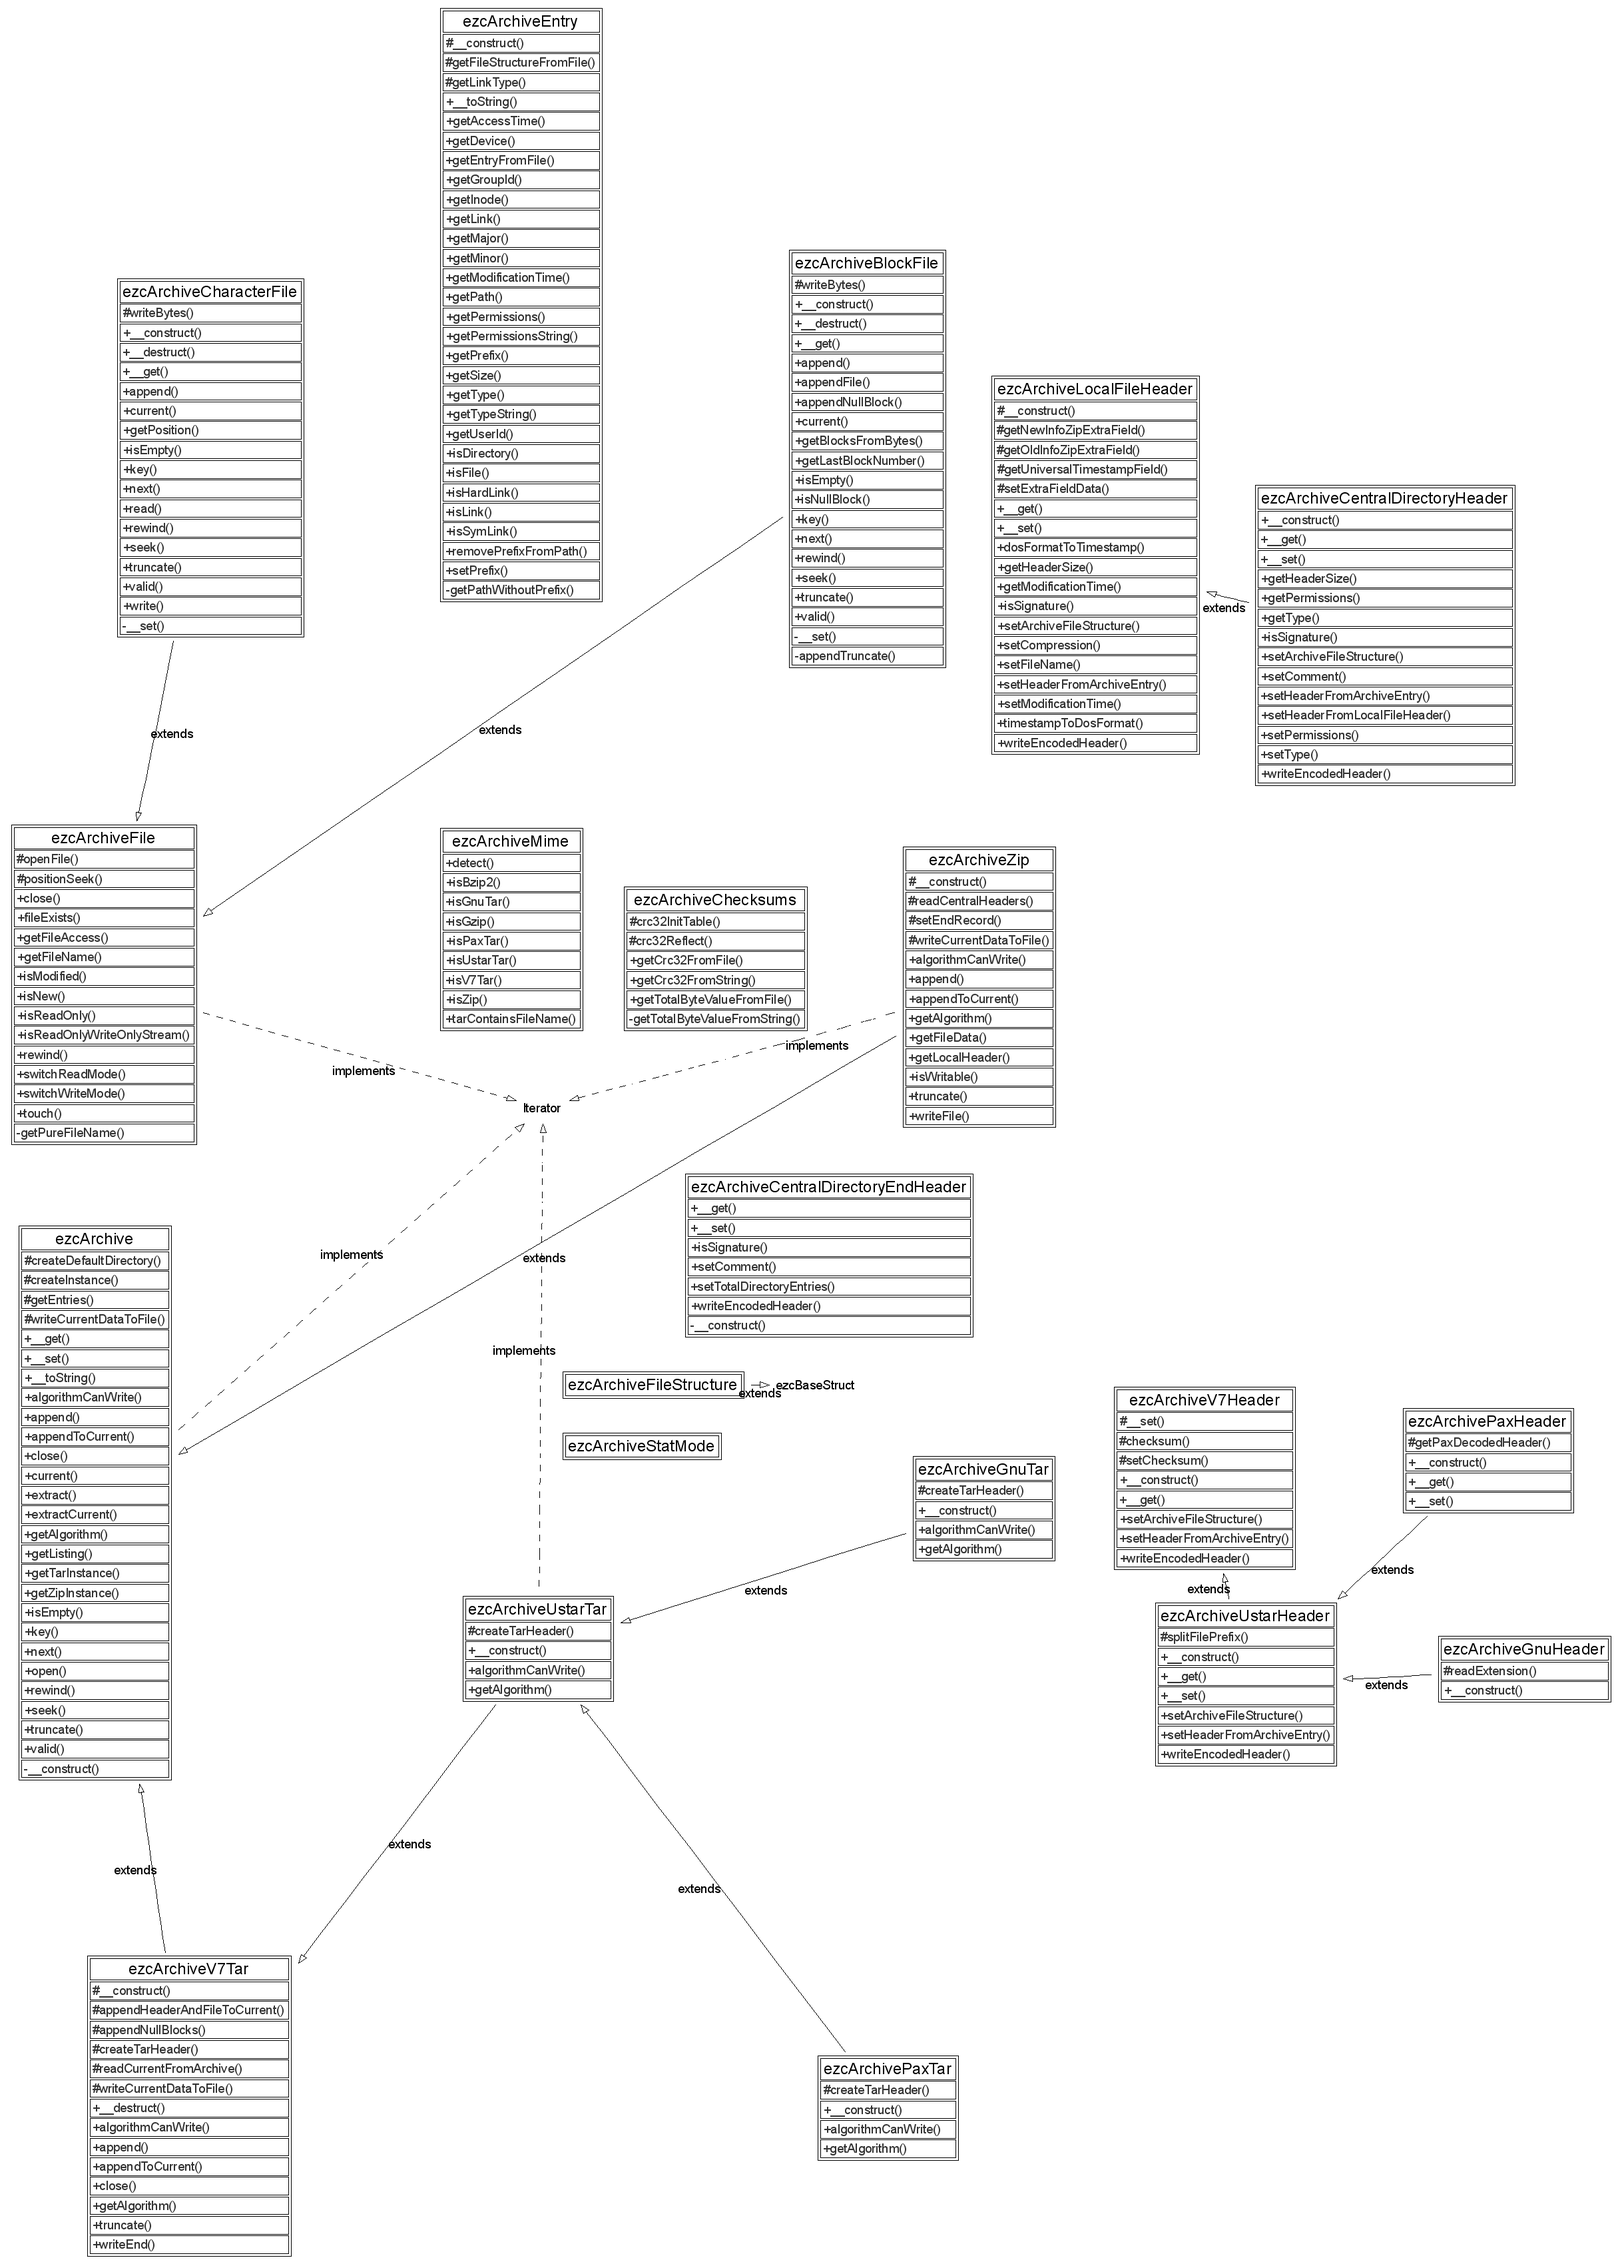
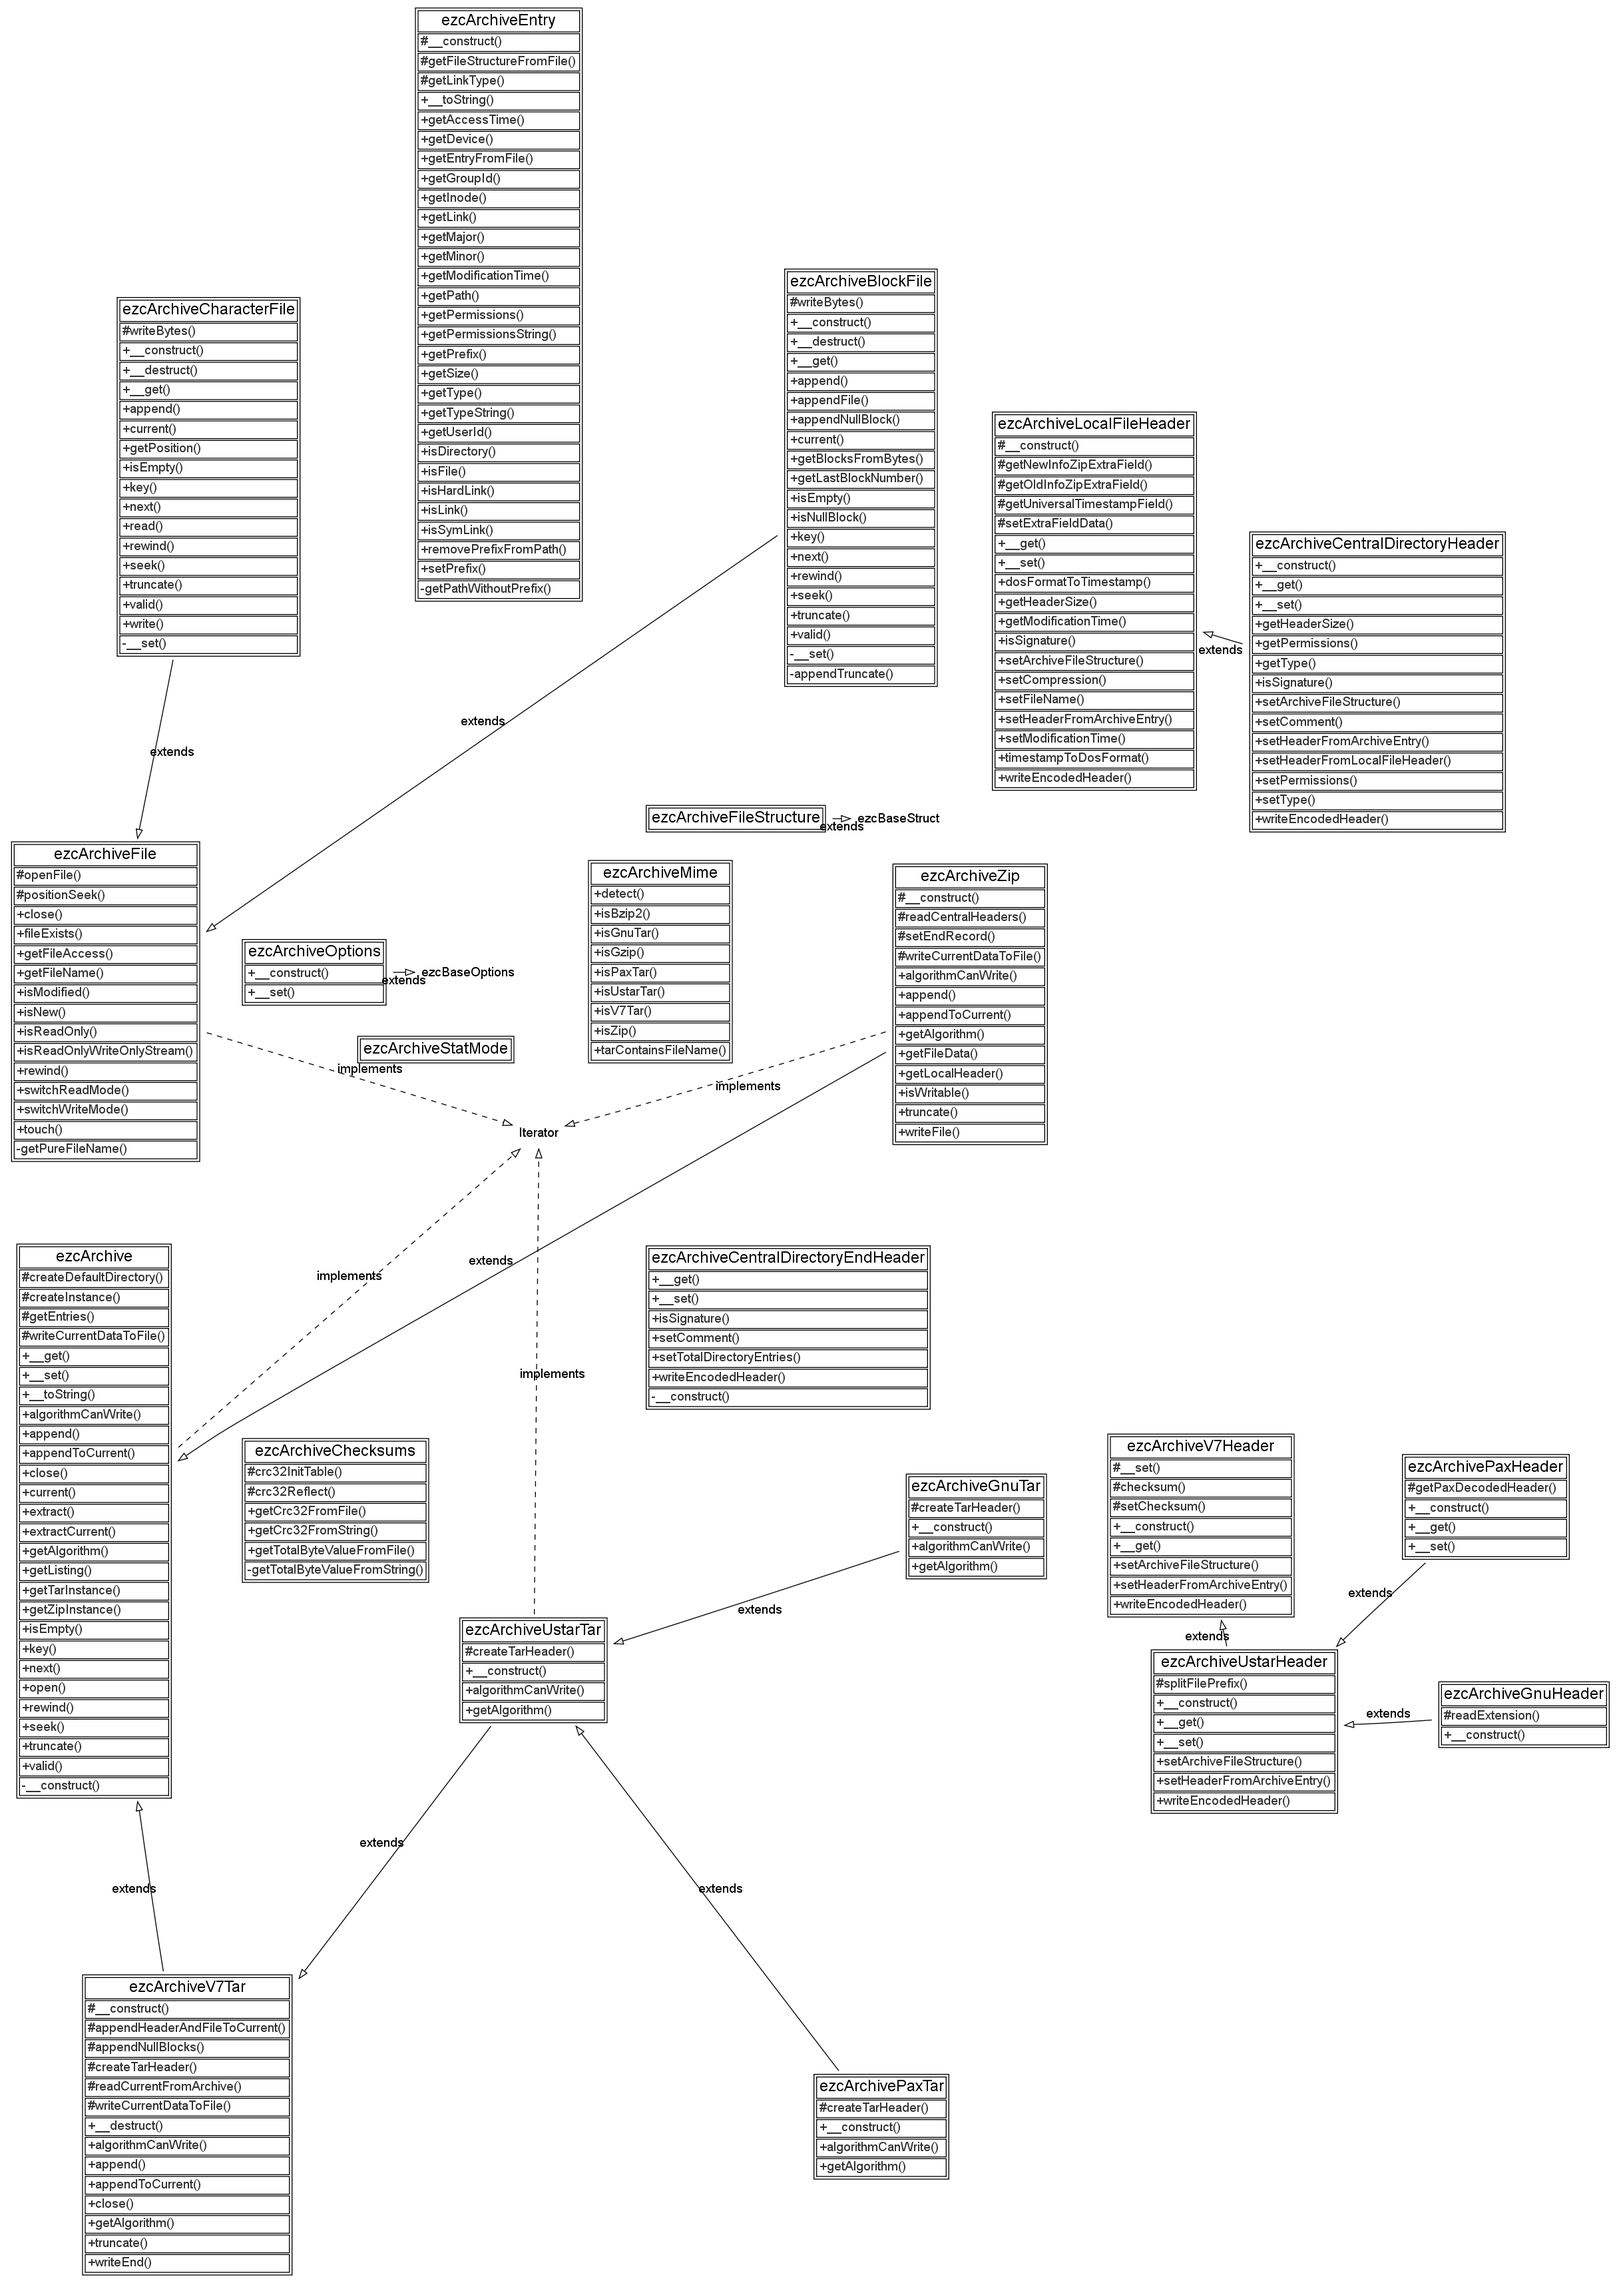
- Implemented issue #12818: Add the possibility to open archives in read-only   mode.

diff --git a/src/archive.php b/src/archive.php
@@ -168,8 +168,10 @@ abstract class ezcArchive implements Iterator
      *
      * @return ezcArchive
      */
-    public static function open( $archiveName, $forceType = null )
+    public static function open( $archiveName, $forceType = null, ezcArchiveOptions $options = null )
     {
+        $options = self::initOptions( $options );
+
         if ( !ezcArchiveFile::fileExists( $archiveName ) && $forceType === null )
         {
             throw new ezcArchiveUnknownTypeException( $archiveName );
@@ -177,7 +179,7 @@ abstract class ezcArchive implements Iterator
 
         if ( $forceType !== null )
         {
-            return self::createInstance( $archiveName, $forceType );
+            return self::createInstance( $archiveName, $forceType, $options );
         }
 
         $h = ezcArchiveMime::detect( $archiveName );
@@ -197,7 +199,7 @@ abstract class ezcArchive implements Iterator
             }
         }
 
-        return self::createInstance( $archiveName, $h );
+        return self::createInstance( $archiveName, $h, $options );
     }
 
     /**
@@ -273,16 +275,34 @@ abstract class ezcArchive implements Iterator
      *                     {@link ezcArchiveV7Tar}, {@link ezcArchivePax},
      *                     {@link ezcArchiveGnuTar}, or {@link ezcArchiveUstar}.
      */
-    protected static function createInstance( $archiveName, $type )
+    protected static function createInstance( $archiveName, $type, ezcArchiveOptions $options = null )
     {
+        $options = self::initOptions( $options );
+
         if ( $type == self::ZIP )
         {
-            $af = new ezcArchiveCharacterFile( $archiveName, true );
+            $af = new ezcArchiveCharacterFile( $archiveName, true, $options->readOnly );
             return self::getZipInstance( $af );
         }
 
-        $af = new ezcArchiveBlockFile( $archiveName, true );
+        $af = new ezcArchiveBlockFile( $archiveName, true, 512, $options->readOnly );
         return self::getTarInstance( $af, $type );
+    }
+
+    /**
+     * This methods initializes the options by generating an options object if $options is null.
+     *
+     * @param null|ezcArchiveOptions $options
+     *
+     * @return ezcArchiveOptions
+     */
+    private static function initOptions( $options )
+    {
+        if ( $options === null )
+        {
+            $options = new ezcArchiveOptions;
+        }
+        return $options;
     }
 
     /**

diff --git a/src/options/archive.php b/src/options/archive.php
@@ -1,0 +1,66 @@
+<?php
+/**
+ * File containing the ezcArchiveOptions class
+ *
+ * @package Archive
+ * @version //autogen//
+ * @copyright Copyright (C) 2005-2008 eZ systems as. All rights reserved.
+ * @license http://ez.no/licenses/new_bsd New BSD License
+ */
+
+/**
+ * Class containing the basic options for ezcBase' autoload.
+ *
+ * @property bool $readOnly
+ *           Whether the archive should be opened in read only mode.
+ *
+ * @package Archive
+ * @version //autogen//
+ */
+class ezcArchiveOptions extends ezcBaseOptions
+{
+    /**
+     * Constructs an object with the specified values.
+     *
+     * @throws ezcBasePropertyNotFoundException
+     *         if $options contains a property not defined
+     * @throws ezcBaseValueException
+     *         if $options contains a property with a value not allowed
+     * @param array(string=>mixed) $options
+     */
+    public function __construct( array $options = array() )
+    {
+        $this->readOnly = false;
+
+        parent::__construct( $options );
+    }
+
+    /**
+     * Sets the option $name to $value.
+     *
+     * @throws ezcBasePropertyNotFoundException
+     *         if the property $name is not defined
+     * @throws ezcBaseValueException
+     *         if $value is not correct for the property $name
+     * @param string $name
+     * @param mixed $value
+     * @ignore
+     */
+    public function __set( $name, $value )
+    {
+        switch ( $name )
+        {
+            case 'readOnly':
+                if ( !is_bool( $value ) )
+                {
+                    throw new ezcBaseValueException( $name, $value, 'bool' );
+                }
+                $this->properties[$name] = $value;
+                break;
+
+            default:
+                throw new ezcBasePropertyNotFoundException( $name );
+        }
+    }
+}
+?>

diff --git a/src/file/file.php b/src/file/file.php
@@ -129,11 +129,12 @@ abstract class ezcArchiveFile implements Iterator
      *
      * @param string $fileName
      * @param bool $createIfNotExist
+     * @param bool $readOnly
      * @return bool
      */
-    protected function openFile( $fileName, $createIfNotExist )
+    protected function openFile( $fileName, $createIfNotExist, $readOnly = false )
     {
-        if ( $createIfNotExist && !self::fileExists( $fileName ) )
+        if ( !$readOnly && $createIfNotExist && !self::fileExists( $fileName ) )
         {
             $this->isNew = true;
             $this->isEmpty = true;
@@ -148,12 +149,18 @@ abstract class ezcArchiveFile implements Iterator
         }
 
         // Try to open it in read and write mode.
-        $this->fp = @fopen( $fileName, "r+b" );
-        if ( $this->fp )
+        $opened = false;
+        if ( !$readOnly ) 
         {
-            $this->fileAccess = self::READ_WRITE;
+            $this->fp = @fopen( $fileName, "r+b" );
+            if ( $this->fp )
+            {
+                $this->fileAccess = self::READ_WRITE;
+                $opened = true;
+            }
         }
-        else
+
+        if ( !$opened )
         {
             // Try to open it in read-only mode.
             $this->fp = @fopen( $fileName, "rb" );
@@ -182,7 +189,7 @@ abstract class ezcArchiveFile implements Iterator
         }
 
         // Why is it read only?
-        if ( $this->fileAccess == self::READ_ONLY )
+        if ( !$readOnly && $this->fileAccess == self::READ_ONLY )
         {
             if ( $this->fileMetaData["wrapper_type"] == "ZLIB" || $this->fileMetaData["wrapper_type"] == "BZip2" )
             {

diff --git a/tests/archive_test.php b/tests/archive_test.php
@@ -425,6 +425,47 @@ class ezcArchiveTest extends ezcArchiveTestCase
         }
     }
 
+    public function testModifyFileTime()
+    {
+        $dir = $this->getTempDir();
+        copy( dirname( __FILE__ ) . "/data/gzip-test.tar.gz", "$dir/mytar.tar.gz" );
+        $before = stat( "$dir/mytar.tar.gz" );
+        clearstatcache();
+        sleep(2);
+
+        $archive = ezcArchive::open( "$dir/mytar.tar.gz" );
+        mkdir( $dir . '/extract' );
+        foreach ( $archive as $file )
+        {
+            $archive->extractCurrent( 'extract' );
+        }
+        $after = stat( "$dir/mytar.tar.gz" );
+
+        self::assertNotEquals( $before['ctime'], $after['ctime'] );
+        self::assertNotEquals( $before['mtime'], $after['mtime'] );
+    }
+
+    public function testReadOnlyModifyFileTime()
+    {
+        $dir = $this->getTempDir();
+        copy( dirname( __FILE__ ) . "/data/gzip-test.tar.gz", "$dir/mytar.tar.gz" );
+        $before = stat( "$dir/mytar.tar.gz" );
+        clearstatcache();
+        sleep(2);
+
+        $options = new ezcArchiveOptions( array( 'readOnly' => true ) );
+        $archive = ezcArchive::open( "$dir/mytar.tar.gz", null, $options );
+        mkdir( $dir . '/extract' );
+        foreach ( $archive as $file )
+        {
+            $archive->extractCurrent( 'extract' );
+        }
+        $after = stat( "$dir/mytar.tar.gz" );
+
+        self::assertEquals( $before['ctime'], $after['ctime'] );
+        self::assertEquals( $before['mtime'], $after['mtime'] );
+    }
+
     public static function suite()
     {
         return new PHPUnit_Framework_TestSuite( __CLASS__ );

diff --git a/src/file/block_file.php b/src/file/block_file.php
@@ -128,12 +128,13 @@ class ezcArchiveBlockFile extends ezcArchiveFile
      * @param string $fileName
      * @param bool $createIfNotExist
      * @param int $blockSize
+     * @param bool $readOnly
      */
-    public function __construct( $fileName, $createIfNotExist = false, $blockSize = 512 )
+    public function __construct( $fileName, $createIfNotExist = false, $blockSize = 512, $readOnly = false )
     {
         $this->blockSize = $blockSize;
 
-        $this->openFile( $fileName, $createIfNotExist );
+        $this->openFile( $fileName, $createIfNotExist, $readOnly );
     }
 
 

diff --git a/src/archive_autoload.php b/src/archive_autoload.php
@@ -36,6 +36,7 @@ return array(
     'ezcArchiveGnuHeader'                 => 'Archive/tar/headers/tar_gnu.php',
     'ezcArchiveGnuTar'                    => 'Archive/tar/gnu_tar.php',
     'ezcArchiveMime'                      => 'Archive/archive_mime.php',
+    'ezcArchiveOptions'                   => 'Archive/options/archive.php',
     'ezcArchivePaxHeader'                 => 'Archive/tar/headers/tar_pax.php',
     'ezcArchivePaxTar'                    => 'Archive/tar/pax_tar.php',
     'ezcArchiveStatMode'                  => 'Archive/stat_mode.php',

diff --git a/src/file/character_file.php b/src/file/character_file.php
@@ -85,10 +85,11 @@ class ezcArchiveCharacterFile extends ezcArchiveFile
      *
      * @param string $fileName
      * @param bool $createIfNotExist
+     * @param bool $readOnly
      */
-    public function __construct( $fileName, $createIfNotExist = false )
+    public function __construct( $fileName, $createIfNotExist = false, $readOnly = false )
     {
-        $this->openFile( $fileName, $createIfNotExist );
+        $this->openFile( $fileName, $createIfNotExist, $readOnly );
         $this->rewind();
     }
 

diff --git a/docs/tutorial_read_only.php b/docs/tutorial_read_only.php
@@ -1,7 +1,9 @@
 <?php
 require_once 'tutorial_autoload.php';
 
-$archive = ezcArchive::open( "compress.zlib:///tmp/my_archive.tar.gz" );
+$options = new ezcArchiveOptions( array( 'readOnly' => true ) );
+$archive = ezcArchive::open(
+    "compress.zlib:///tmp/my_archive.tar.gz", null, $options );
 
 // The foreach method calls internally the iterator methods.
 foreach( $archive as $entry )
